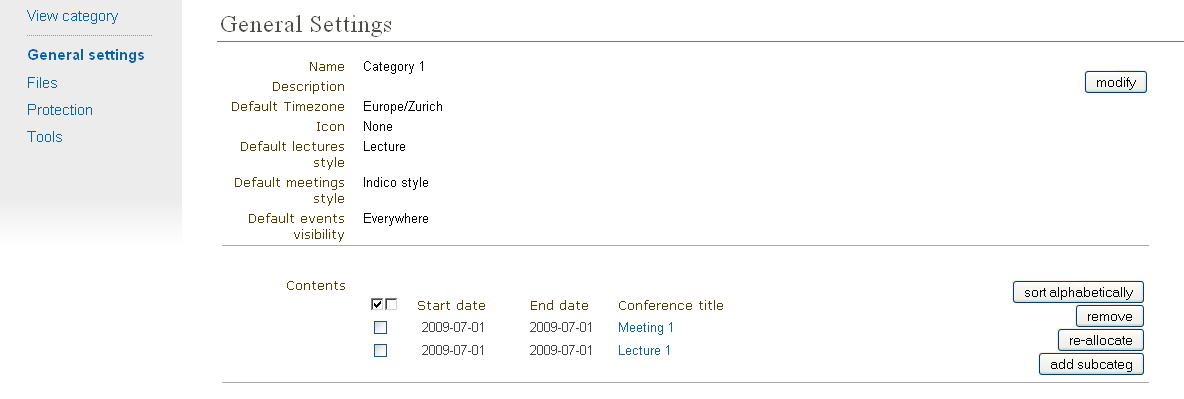
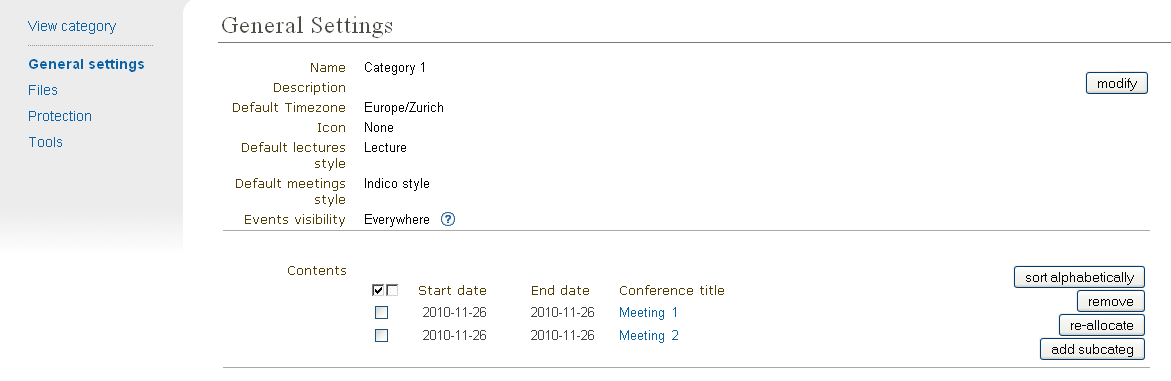
[FIX] Category default visibility
- label was changed
	- documentation updated
	- fix#570

diff --git a/doc/guides/UserGuide/Categories.rst b/doc/guides/UserGuide/Categories.rst
@@ -5,37 +5,57 @@ Categories
 Category
 ---------
 
-A Category is a means of grouping your events or other Categories 
+A Category is a means of grouping your events or other Categories
 together. In Indico *Home* is the top level category from where you
 start. Inside a category you can:
 
 * add events or other sub-categories,
 * set access rights to say who can access or modify,
-* re-allocate the sub-categories, 
-* remove the sub-categories, 
+* re-allocate the sub-categories,
+* remove the sub-categories,
 * and also delete the current category and everything inside it.
 
-These features are accessible through the menu *Manage* (you must be logged in 
+These features are accessible through the menu *Manage* (you must be logged in
 and with modification rights in order to see it), that you can find close to the
-big orange category name. After clicking *Manage* (more specifically its inner 
+big orange category name. After clicking *Manage* (more specifically its inner
 option *Edit category*) you will be accessing the Management area for Category.
 
 
 Creating a Category
 -------------------
 
-From the menu *Manage* (more specifically its inner 
-option *Add subcategory*) you can create a new category. 
+From the menu *Manage* (more specifically its inner
+option *Add subcategory*) you can create a new category.
 You will need to have an Administrator's account or be listed
-in the modification list `(see Protection) <#protection>`_ 
-for the category. 
+in the modification list `(see Protection) <#protection>`_
+for the category.
 
 Also you can create it from the Management area, from the menu
-*General settings* `(See General Settings) <#general-settings>`_  
+*General settings* `(See General Settings) <#general-settings>`_
 and by clicking the button *add subcateg*.
 
 |image1|
 
+Category overview
+-----------------
+
+From the menu *View* you can see the event overview fom the
+category. Events that belongs to the category and its subcategories
+from the specified period will be displayed.
+
+It is possible to exclude some categories from the event overview
+in *General settings* `(See General Settings) <#general-settings>`_ .
+Categories have three event visibility levels:
+
+* *Everywhere* - events are shown in the event overview webpage for this category and the parent categories.
+* *Category name* - events are shown only in the overview webpage for current category.
+* *Nowhere* - events are not shown in any overview webpage.
+
+|image6|
+*Event overview webpage.*
+
+|image7|
+*Calendar overview webpage.*
 
 Category Management Area
 ------------------------
@@ -53,6 +73,7 @@ You can modify the details of the category:
 * Icon
 * Default style (layout) for meetings created within this category `(see Meetings) <Meetings.html>`_
 * Default style (layout) for lectures created within this category `(see Lectures) <Lectures.html>`_
+* Event visibility for this category `(See Category overview) <#category-overview>`_
 
 and you can modify its content:
 
@@ -64,7 +85,7 @@ and you can modify its content:
 
 --------------
 
-Protection 
+Protection
 ~~~~~~~~~~
 
 From the Management Area you can protect your category using the
@@ -91,7 +112,7 @@ be private. The category will be displayed with "(protected)" after
 its name to show it is private.
 
 *Domain Control* The access to the Category can be restricted by domain.
-Therefore, just the users from the chosen domain will be able to access 
+Therefore, just the users from the chosen domain will be able to access
 (e.g. If we choose the domain CERN, just users from inside CERN will
 be able to access the category and its content).
 
@@ -101,7 +122,7 @@ users or groups to the list in order to allow them to add events.
 
 |image4|
 
-`See Protection System <Protection.html>`_  
+`See Protection System <Protection.html>`_
 in order to know more about Protection in Indico.
 
 --------------
@@ -110,7 +131,7 @@ Detail Modification & Sub-Category/Event Organisation
 ~~~~~~~~~~~~~~~~~~~~~~~~~~~~~~~~~~~~~~~~~~~~~~~~~~~~~
 
 The details of a Category can be modified and sub-categories can
-be organised from the *General settings* tab in the management area. 
+be organised from the *General settings* tab in the management area.
 Details can be modified by clicking on modify inside the main tab.
 Sub-categories and events can be organised in the particular order
 in which you wish to view them by using the order drop down box next
@@ -121,10 +142,10 @@ to each sub-category.
 You can re-allocate a sub-category or event by selecting the one
 you wish to move using the tick box and clicking on re-allocate,
 you will then be asked to where you would like to reallocate this
-sub-category/event. 
+sub-category/event.
 
-To remove a sub-category and anything it contains or an event, 
-select it and click *remove*. If it contains anything you will be 
+To remove a sub-category and anything it contains or an event,
+select it and click *remove*. If it contains anything you will be
 asked if you are sure you want to delete it.
 
 --------------
@@ -145,4 +166,6 @@ will be asked to confirm the deletion first.
 .. |image3| image:: UserGuidePics/categ3.png
 .. |image4| image:: UserGuidePics/categ4.png
 .. |image5| image:: UserGuidePics/categ5.png
+.. |image6| image:: UserGuidePics/categ6.png
+.. |image7| image:: UserGuidePics/categ7.png
 
